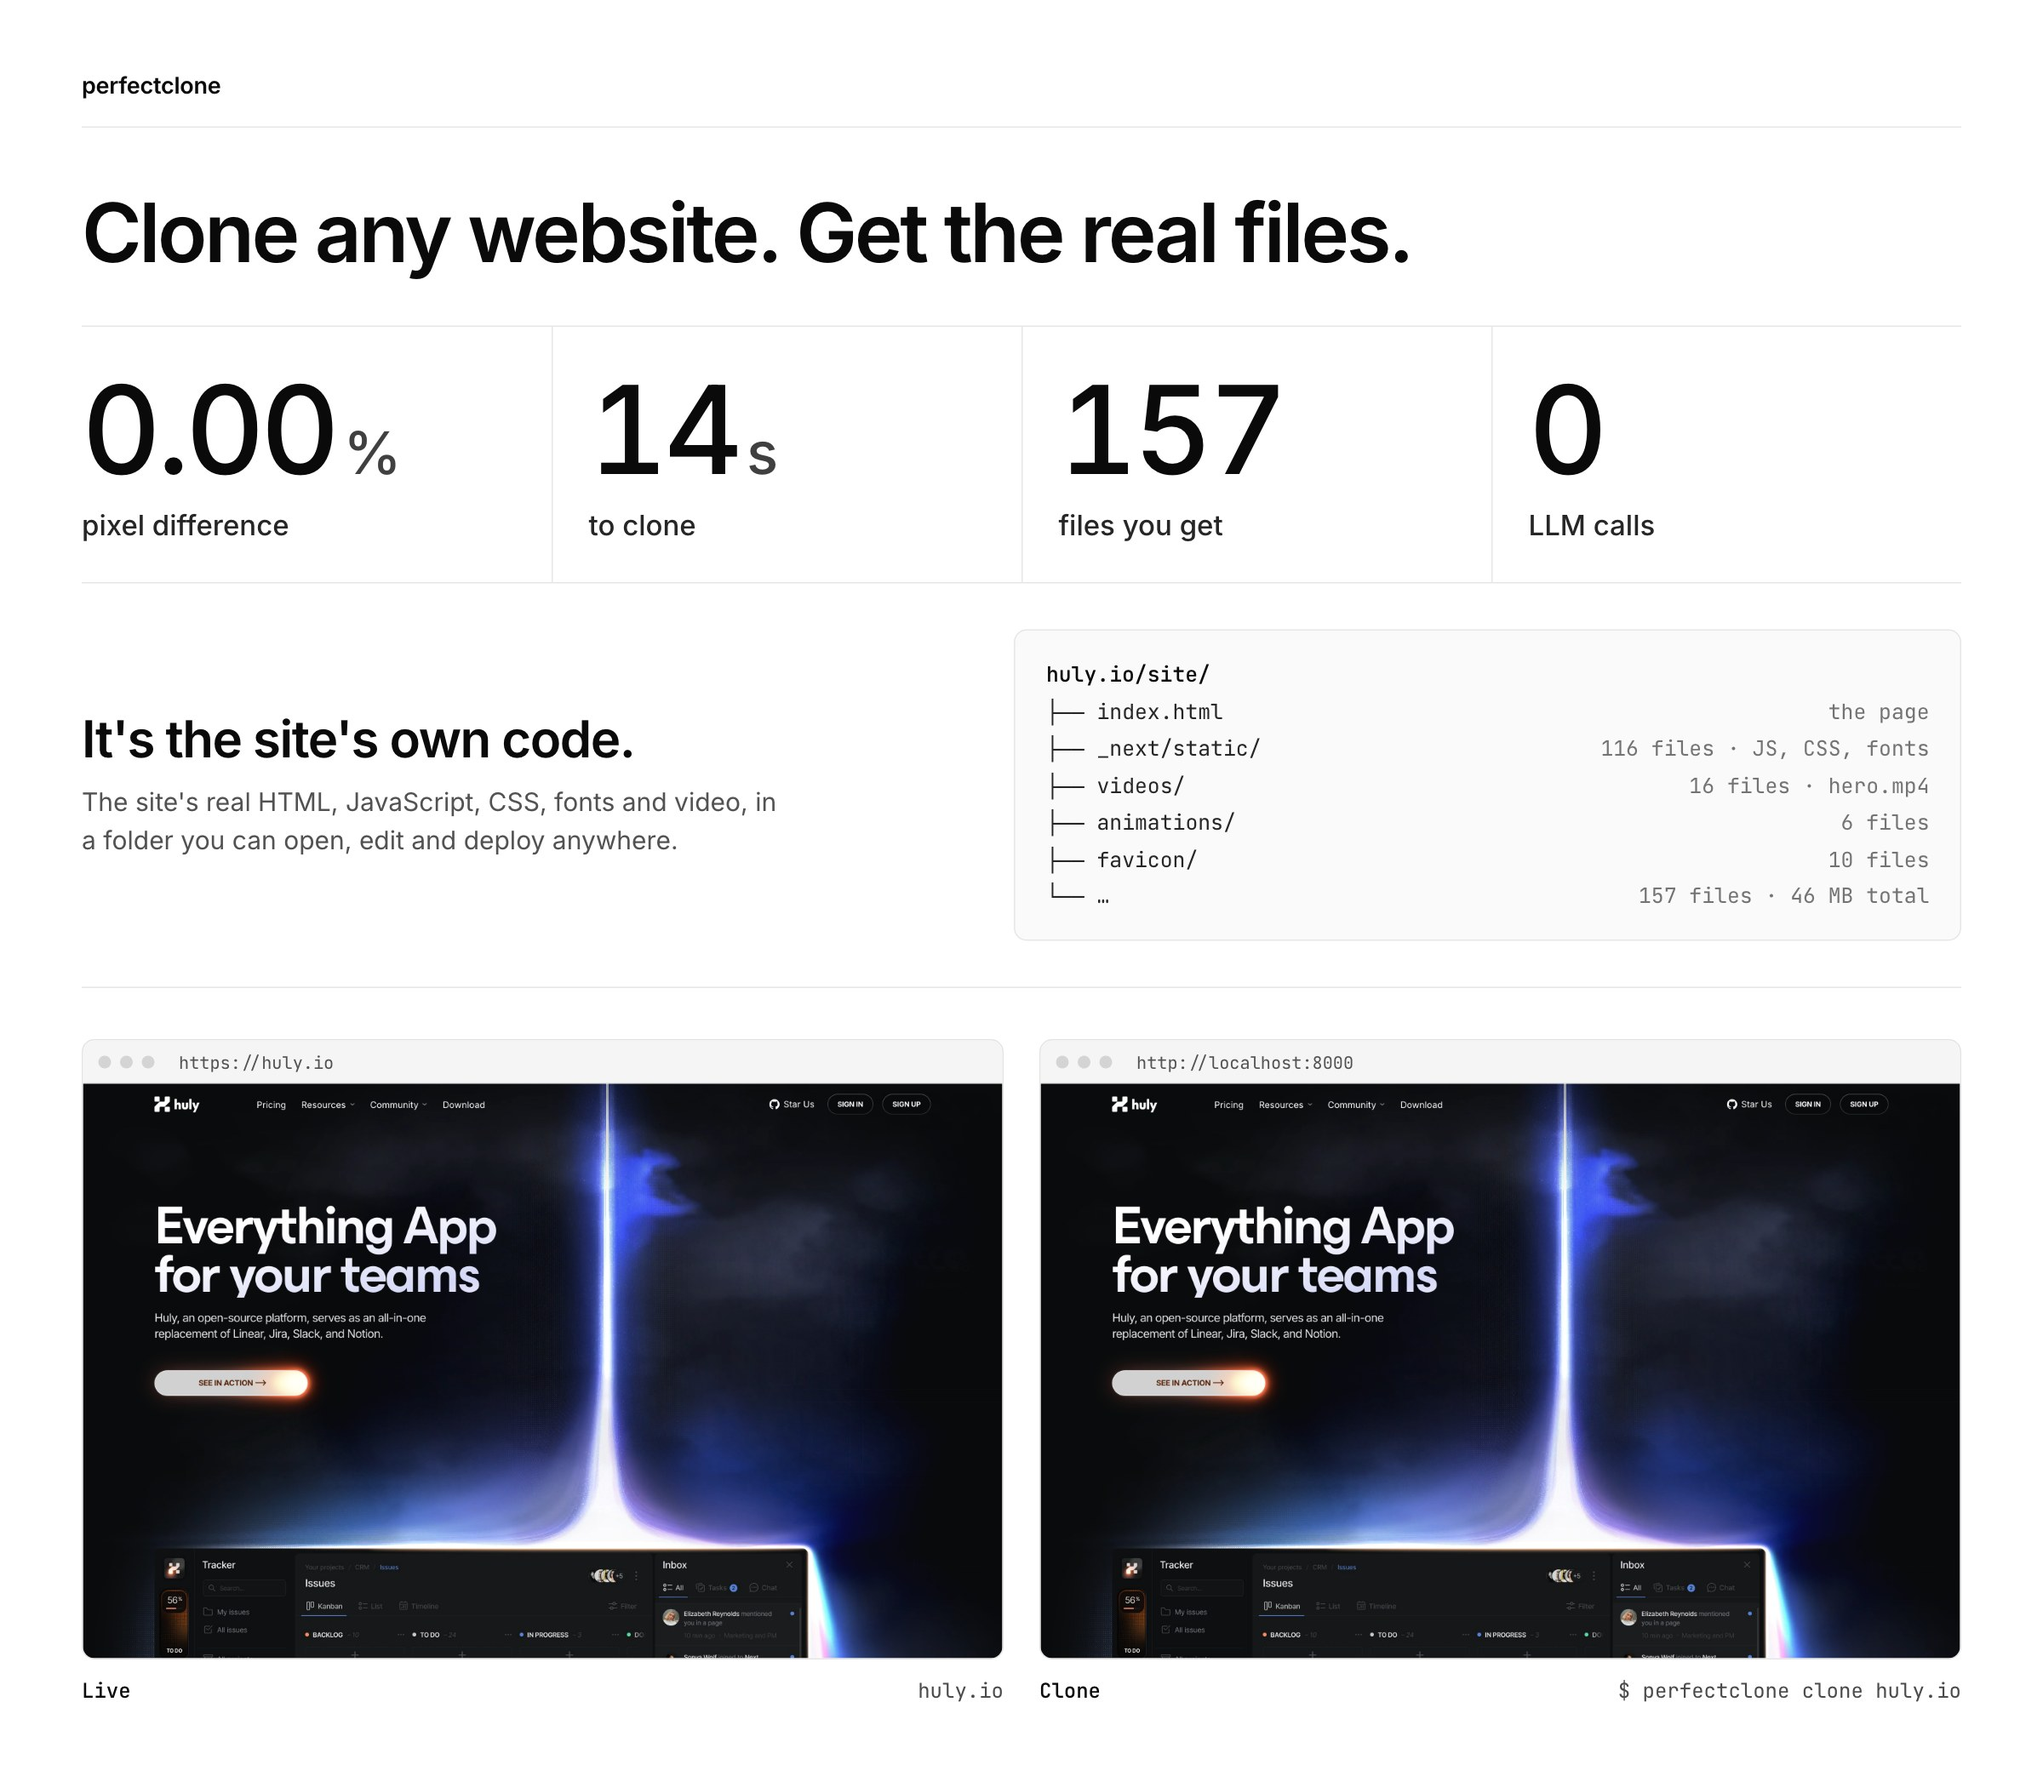
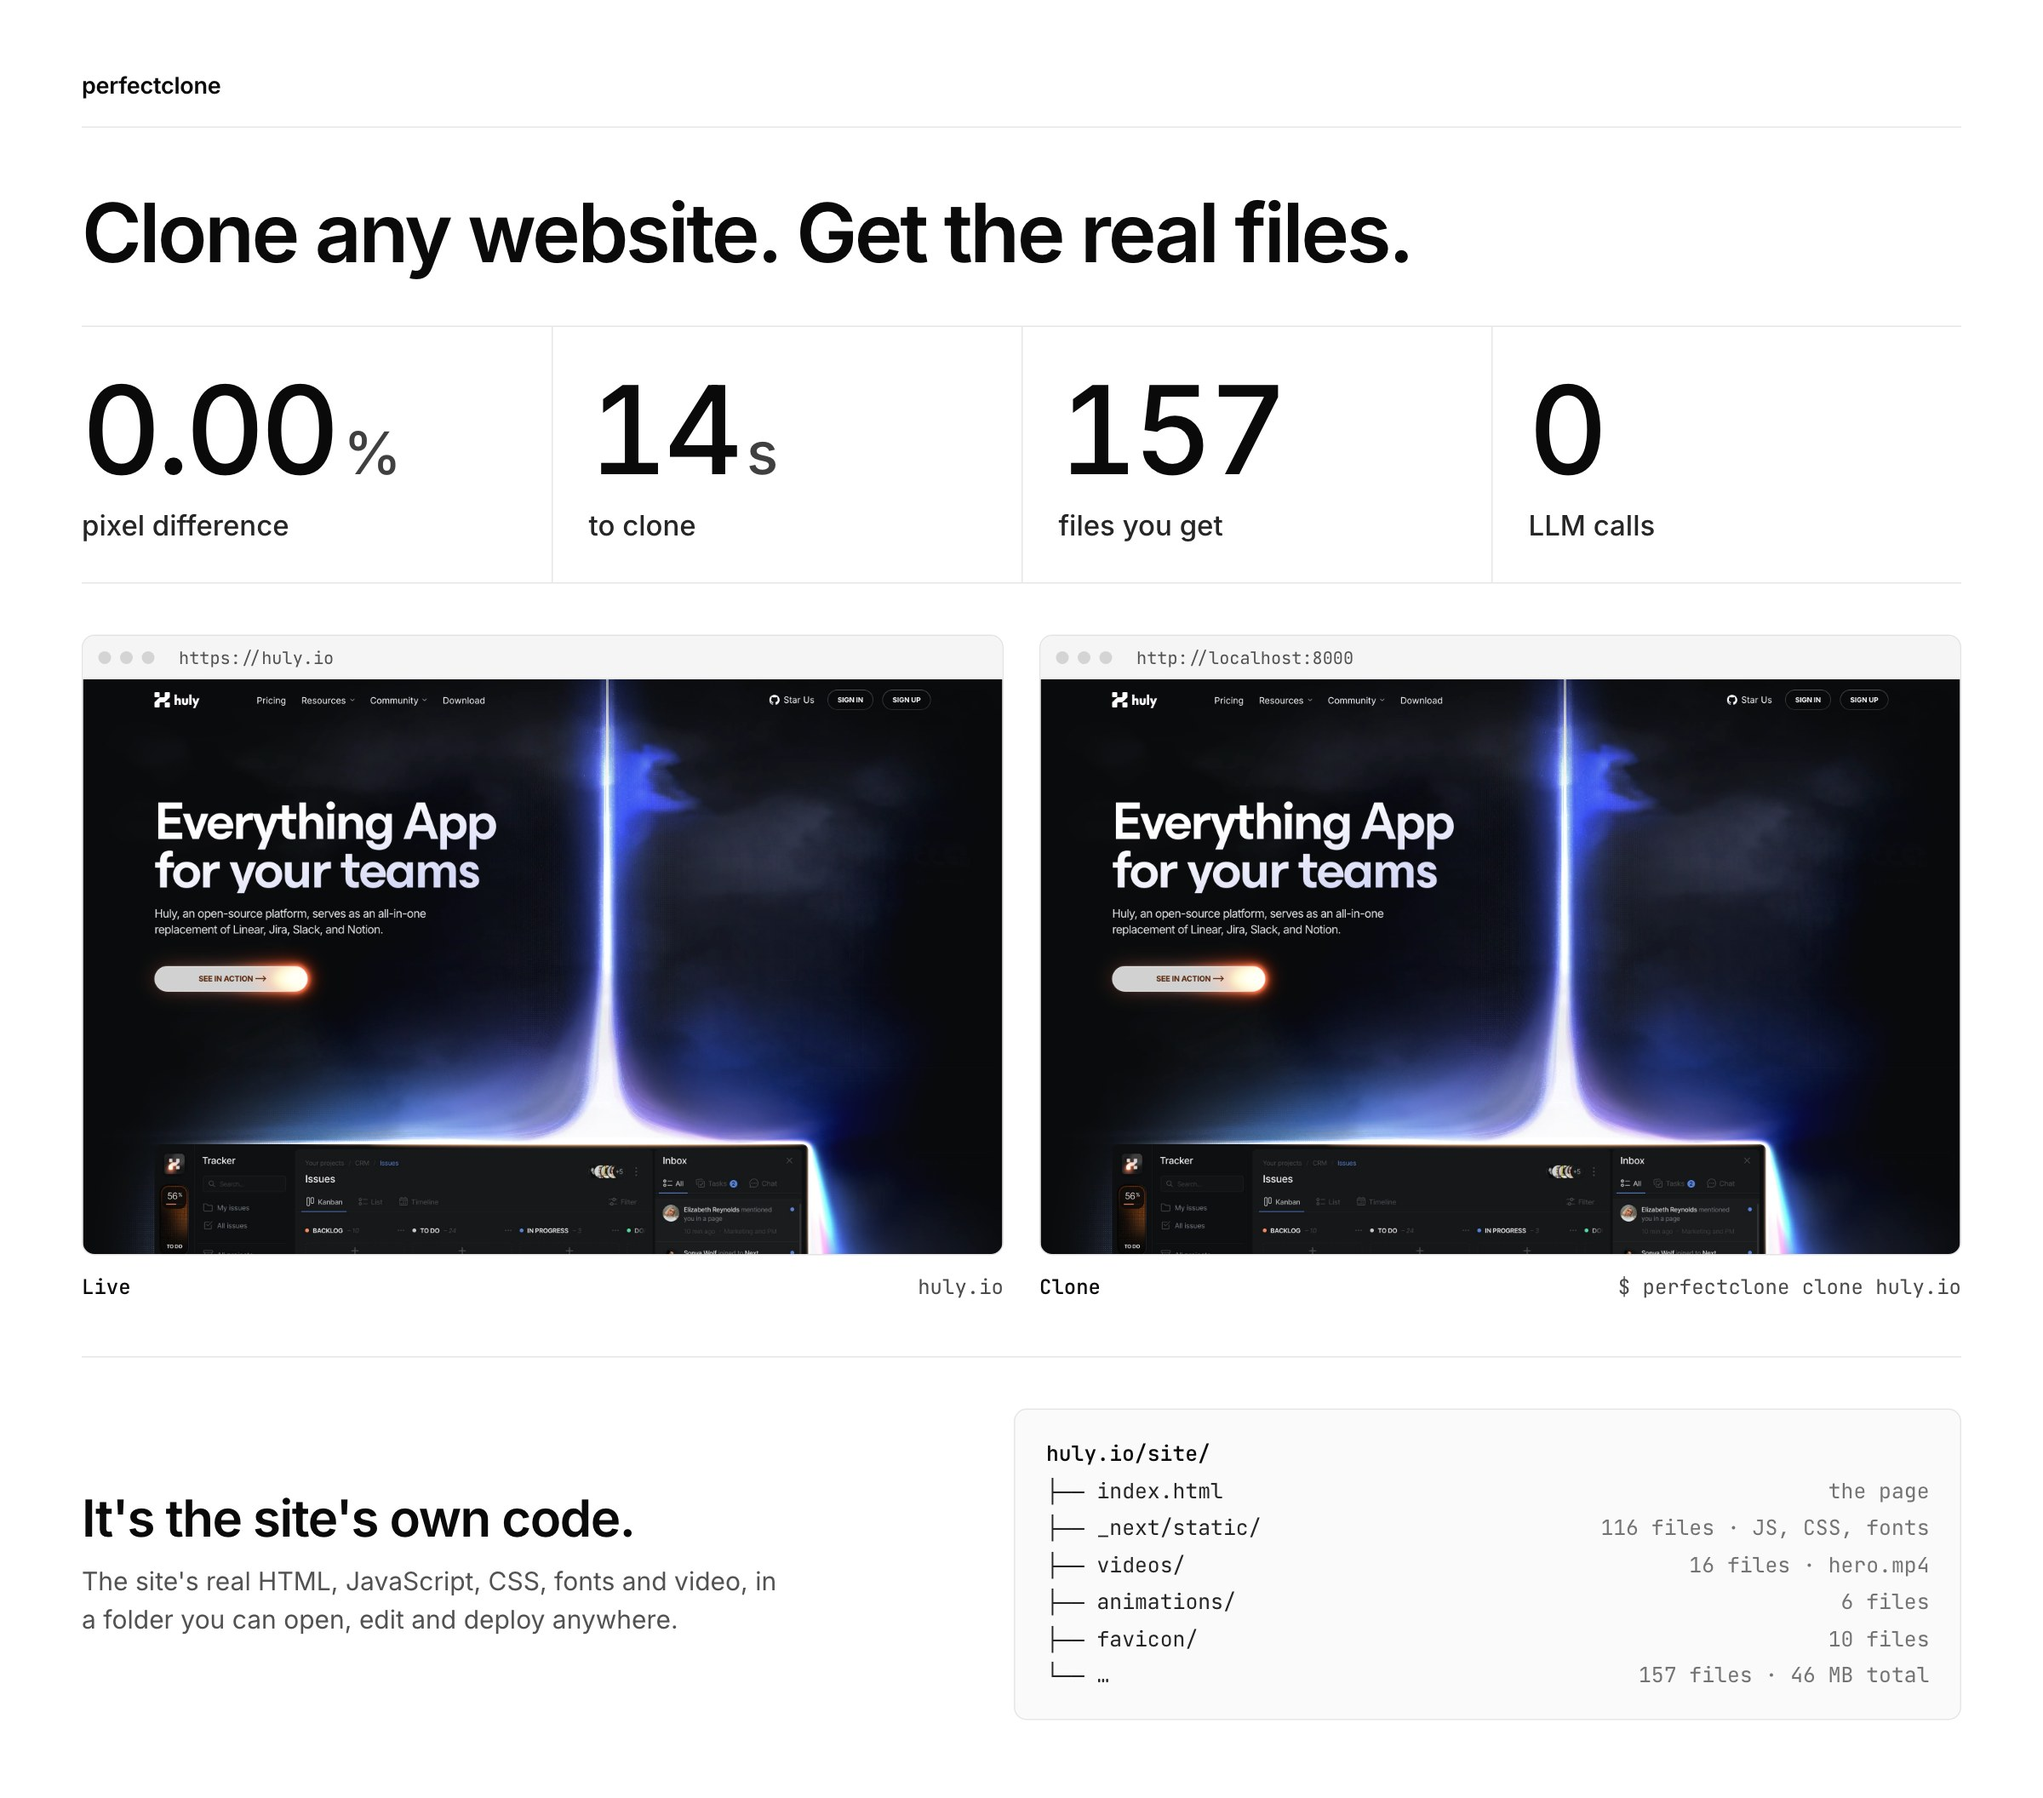
docs: add README tagline and move file tree under screenshots
The README opens with a one-line pitch above the hero image, and the
image now reads title, stats, live vs clone, then the files you get.

diff --git a/README.md b/README.md
@@ -1,11 +1,13 @@
 # perfectclone: website cloner that copies the real site, 1:1
 
-**perfectclone clones any website 1:1.** It crawls the site with a real browser (Playwright),
+**Pull the real frontend of any public site in ~15 seconds. No AI, no tokens.**
+
+![Clone any website. Get the real files. huly.io cloned with perfectclone: 0.00% pixel difference, 14 seconds, 157 files, 0 LLM calls.](docs/images/huly-live-vs-clone.jpg)
+
+perfectclone clones any website 1:1. It crawls the site with a real browser (Playwright),
 downloads the site's own HTML, JavaScript, CSS, fonts and images, and gives you a folder you can
 serve, edit and deploy. Then it lets you rebrand it, rehost it and strip the original owner's
 trackers without breaking it, including Next.js sites that hydrate on load.
-
-![Clone any website. Get the real files. huly.io cloned with perfectclone: 0.00% pixel difference, 14 seconds, 157 files, 0 LLM calls.](docs/images/huly-live-vs-clone.jpg)
 
 ```bash
 pip install git+https://github.com/eshaangulati123/perfectclone-website-cloner
